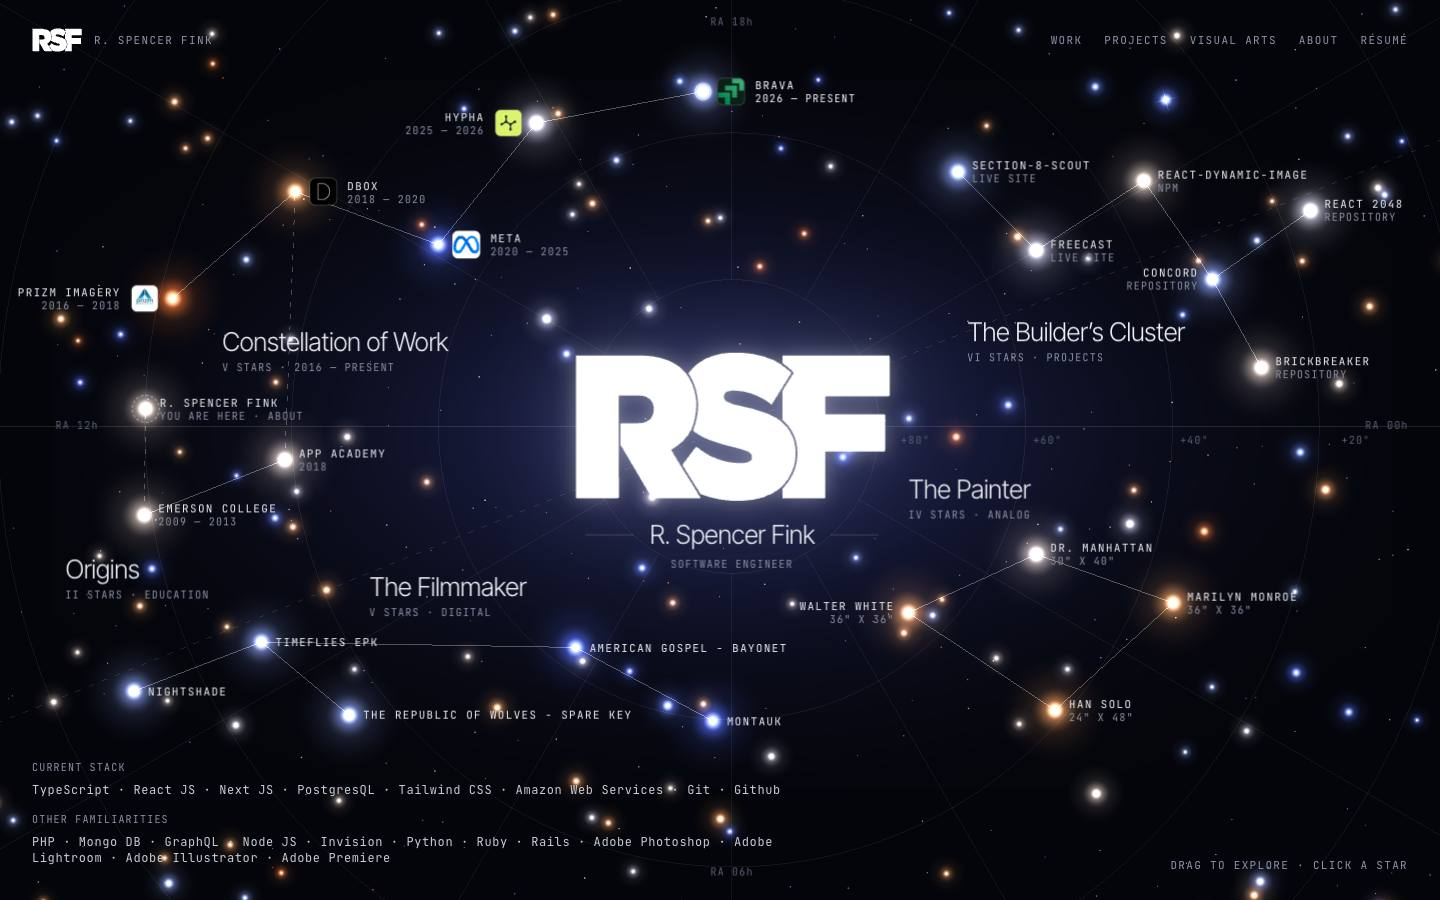
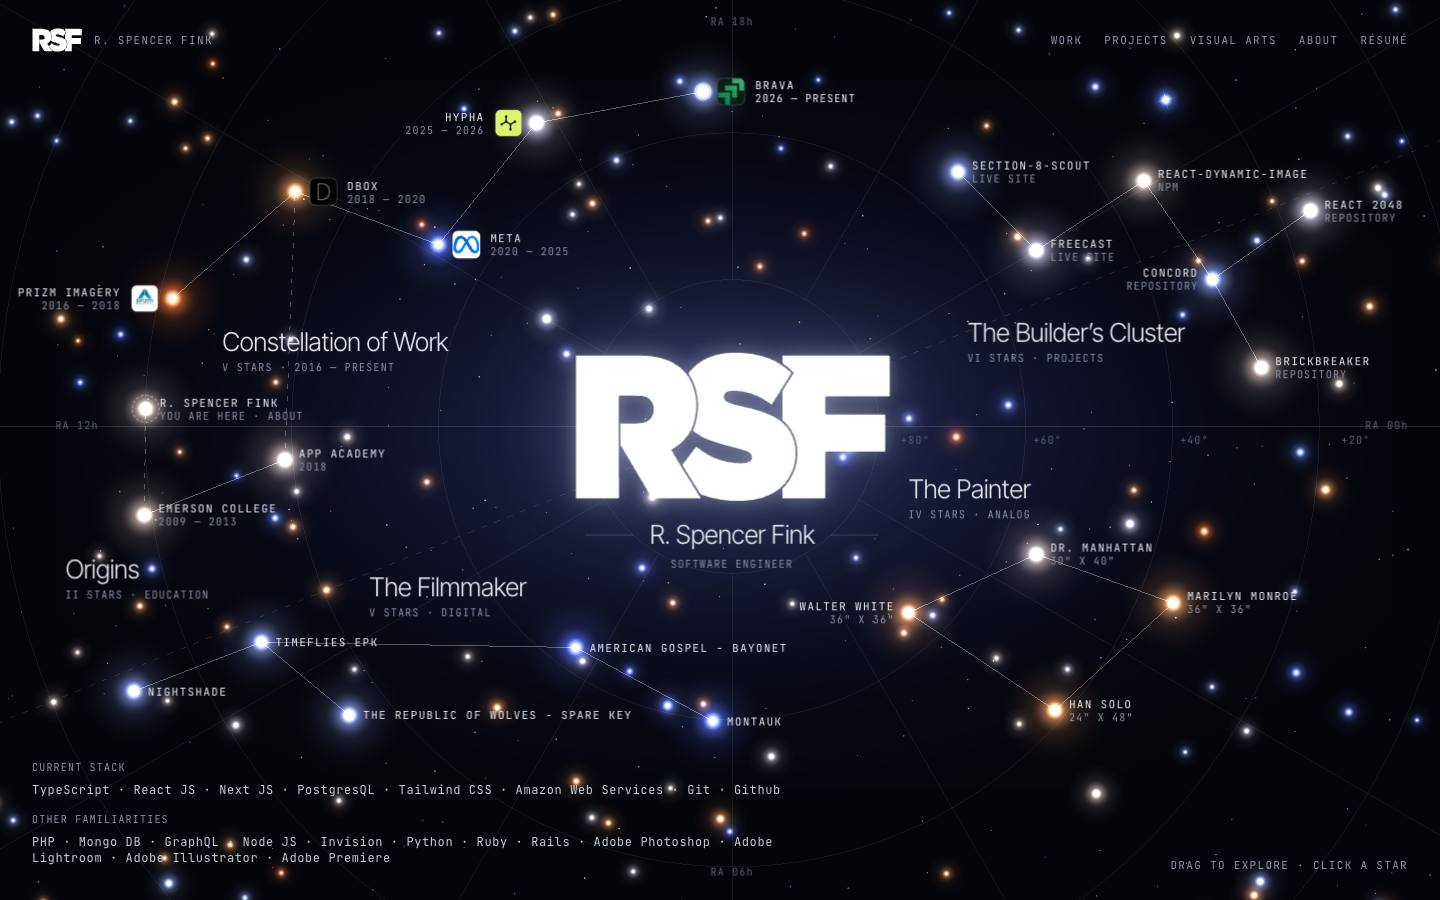
Hide sky labels behind the cinema panel and theater; refresh integration screenshots

diff --git a/src/components/sky/SkyHost.module.css b/src/components/sky/SkyHost.module.css
@@ -382,3 +382,9 @@
     display: none;
   }
 }
+
+/* Cinema and theater: the film owns the screen; no star labels read through it. */
+:global(html[data-theater]) .labels :is(.text, .cname),
+:global(html[data-panel='cinema']) .labels :is(.text, .cname) {
+  opacity: 0;
+}
